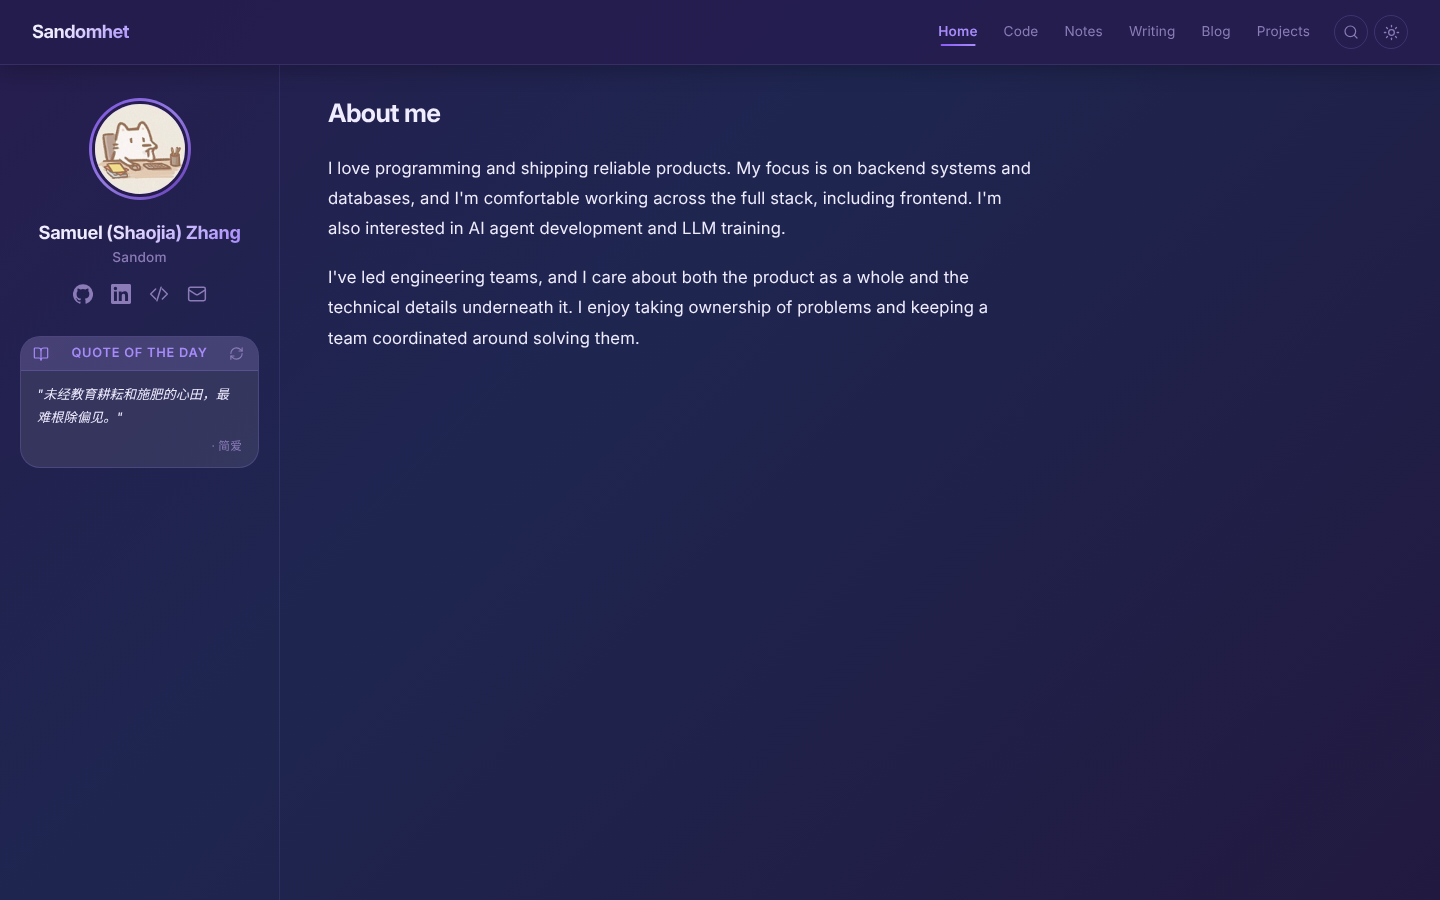
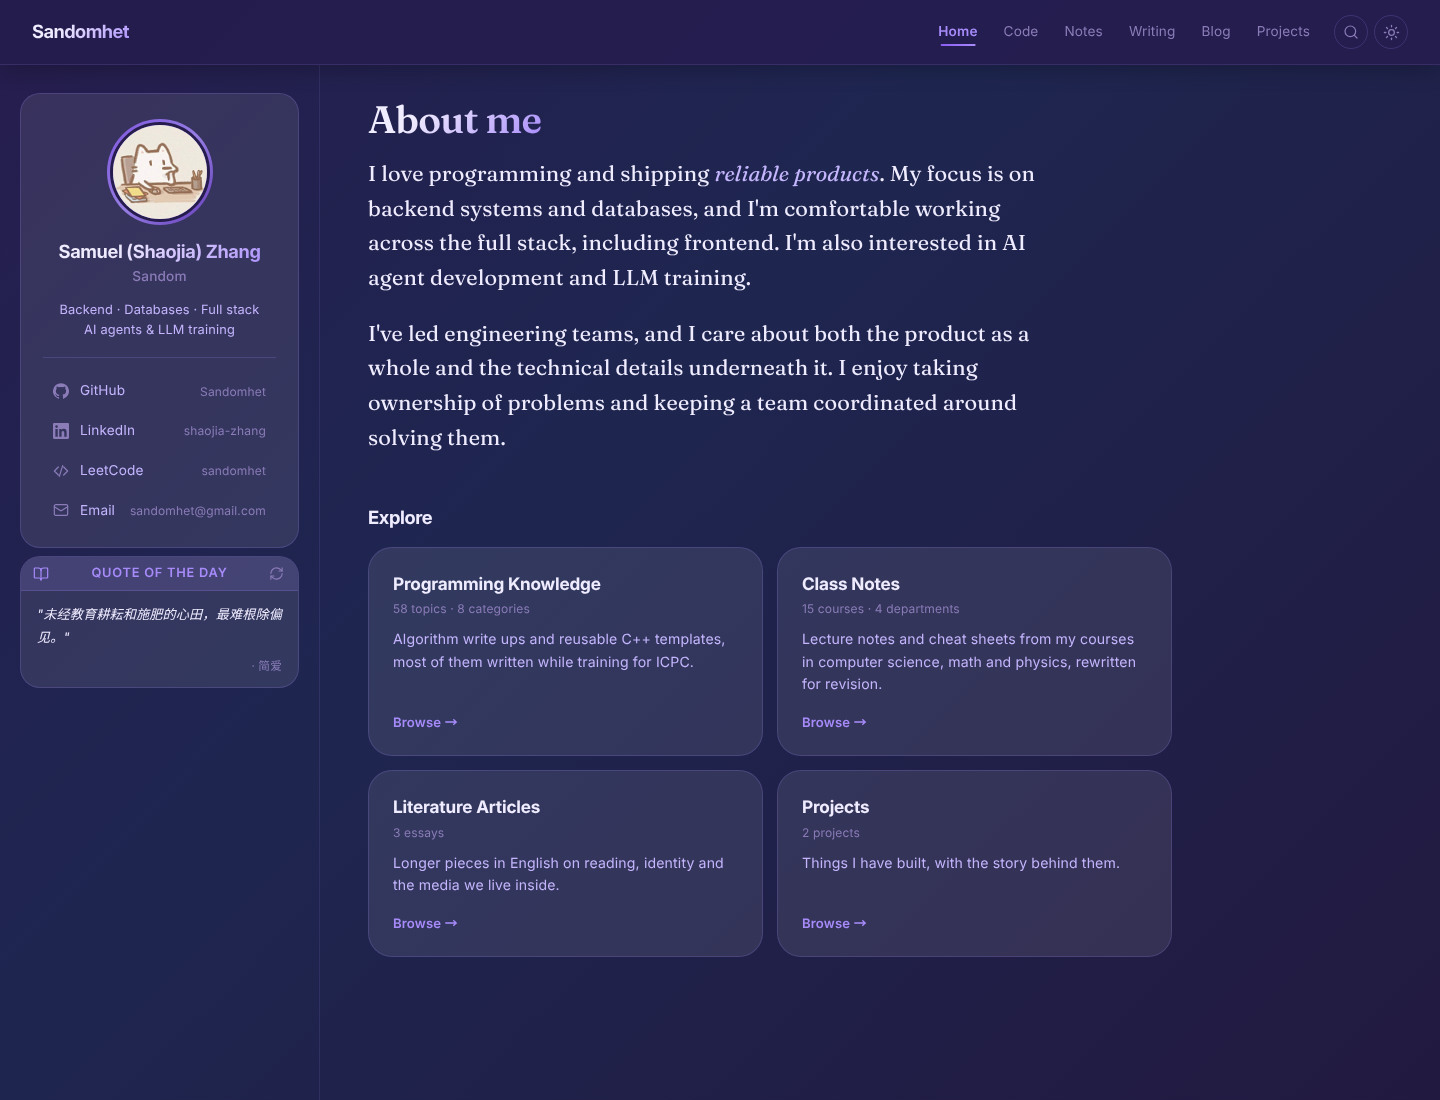
Redesign the home page: profile card, Fraunces About me, Explore grid
- profile sidebar: framed card with avatar, name, nickname, a short focus
  line and labelled links (handles shown); Quote of the Day is unchanged
- sidebar widened from 280px to 320px
- About me set in Fraunces (self-hosted via fontsource); both paragraphs
  share one style, with "reliable products" in italic
- Explore: 2x2 grid of section cards with a count, one-line intro and
  Browse link; no icons or chips

diff --git a/src/data/site.ts b/src/data/site.ts
@@ -5,20 +5,22 @@ export const profile = {
   handle: "Sandomhet",
   short: "Sandom",
   avatar: "/avatar.jpg",
+  // Two short lines under the name in the profile card.
+  focus: ["Backend · Databases · Full stack", "AI agents & LLM training"],
   email: "sandomhet@gmail.com",
   about: [
-    "I love programming and shipping reliable products. My focus is on backend systems and databases, and I'm comfortable working across the full stack, including frontend. I'm also interested in AI agent development and LLM training.",
+    "I love programming and shipping *reliable products*. My focus is on backend systems and databases, and I'm comfortable working across the full stack, including frontend. I'm also interested in AI agent development and LLM training.",
     "I've led engineering teams, and I care about both the product as a whole and the technical details underneath it. I enjoy taking ownership of problems and keeping a team coordinated around solving them.",
   ],
 };
 
-export type SocialLink = {label: string; href: string; icon: "github" | "linkedin" | "leetcode" | "mail"};
+export type SocialLink = {label: string; handle: string; href: string; icon: "github" | "linkedin" | "leetcode" | "mail"};
 
 export const socials: SocialLink[] = [
-  {label: "GitHub", href: "https://github.com/Sandomhet", icon: "github"},
-  {label: "LinkedIn", href: "https://www.linkedin.com/in/shaojia-zhang/", icon: "linkedin"},
-  {label: "LeetCode", href: "https://leetcode.com/u/sandomhet/", icon: "leetcode"},
-  {label: "Email", href: "mailto:sandomhet@gmail.com", icon: "mail"},
+  {label: "GitHub", handle: "Sandomhet", href: "https://github.com/Sandomhet", icon: "github"},
+  {label: "LinkedIn", handle: "shaojia-zhang", href: "https://www.linkedin.com/in/shaojia-zhang/", icon: "linkedin"},
+  {label: "LeetCode", handle: "sandomhet", href: "https://leetcode.com/u/sandomhet/", icon: "leetcode"},
+  {label: "Email", handle: "sandomhet@gmail.com", href: "mailto:sandomhet@gmail.com", icon: "mail"},
 ];
 
 export type SectionKey = "code" | "notes" | "writing" | "blog" | "projects";
